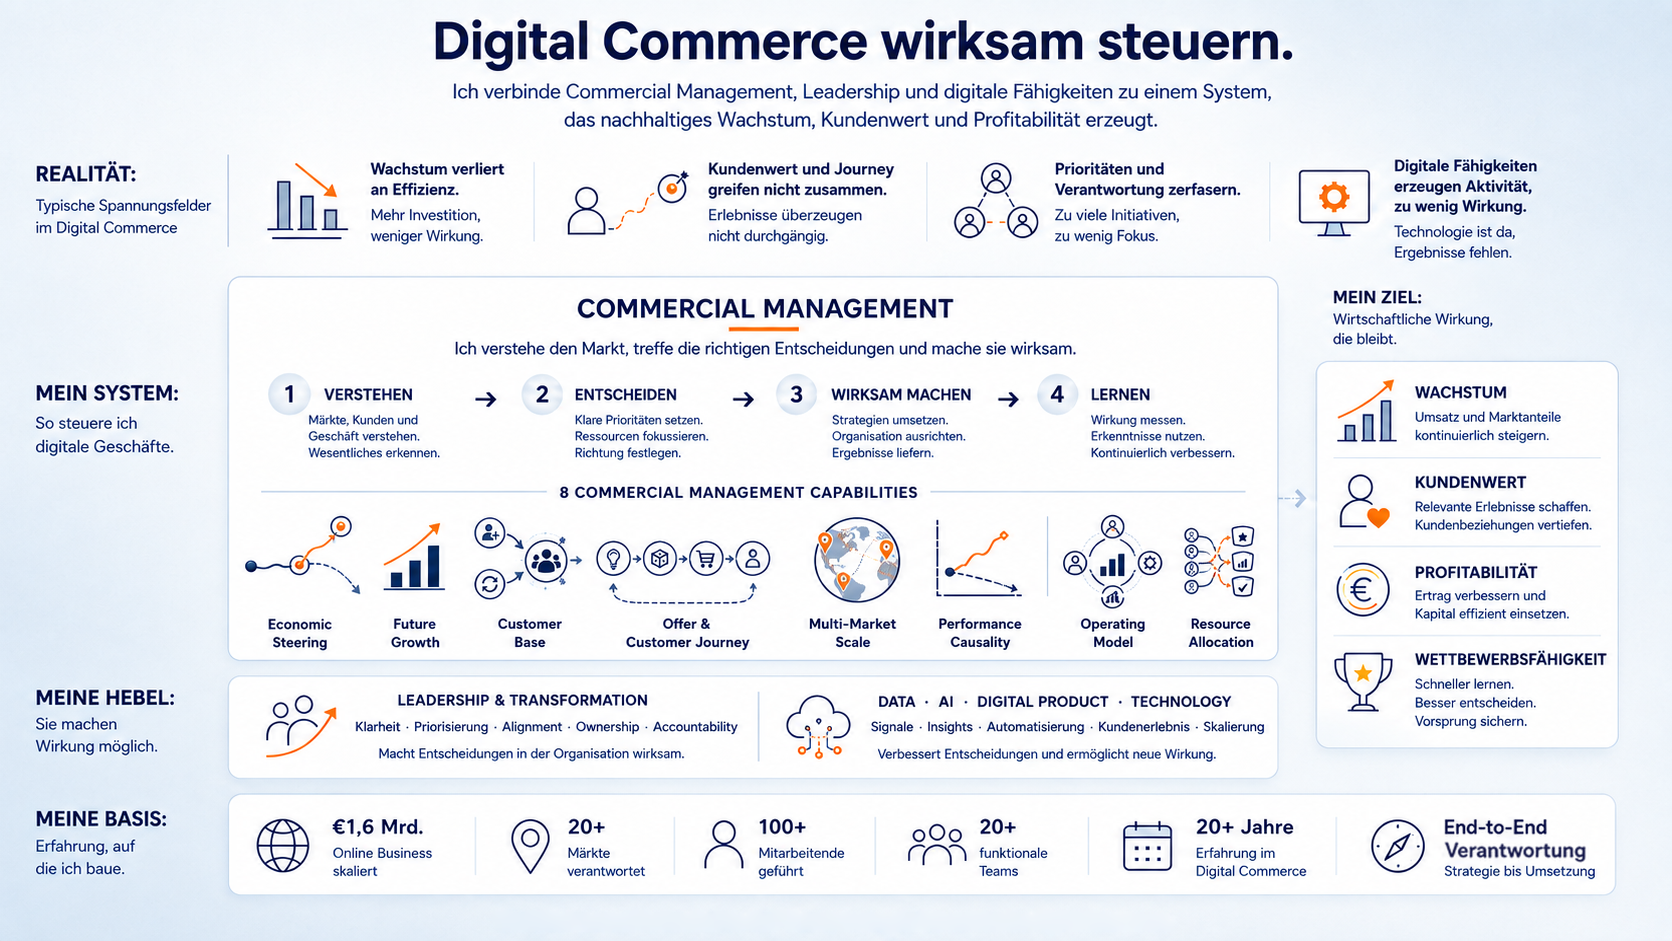
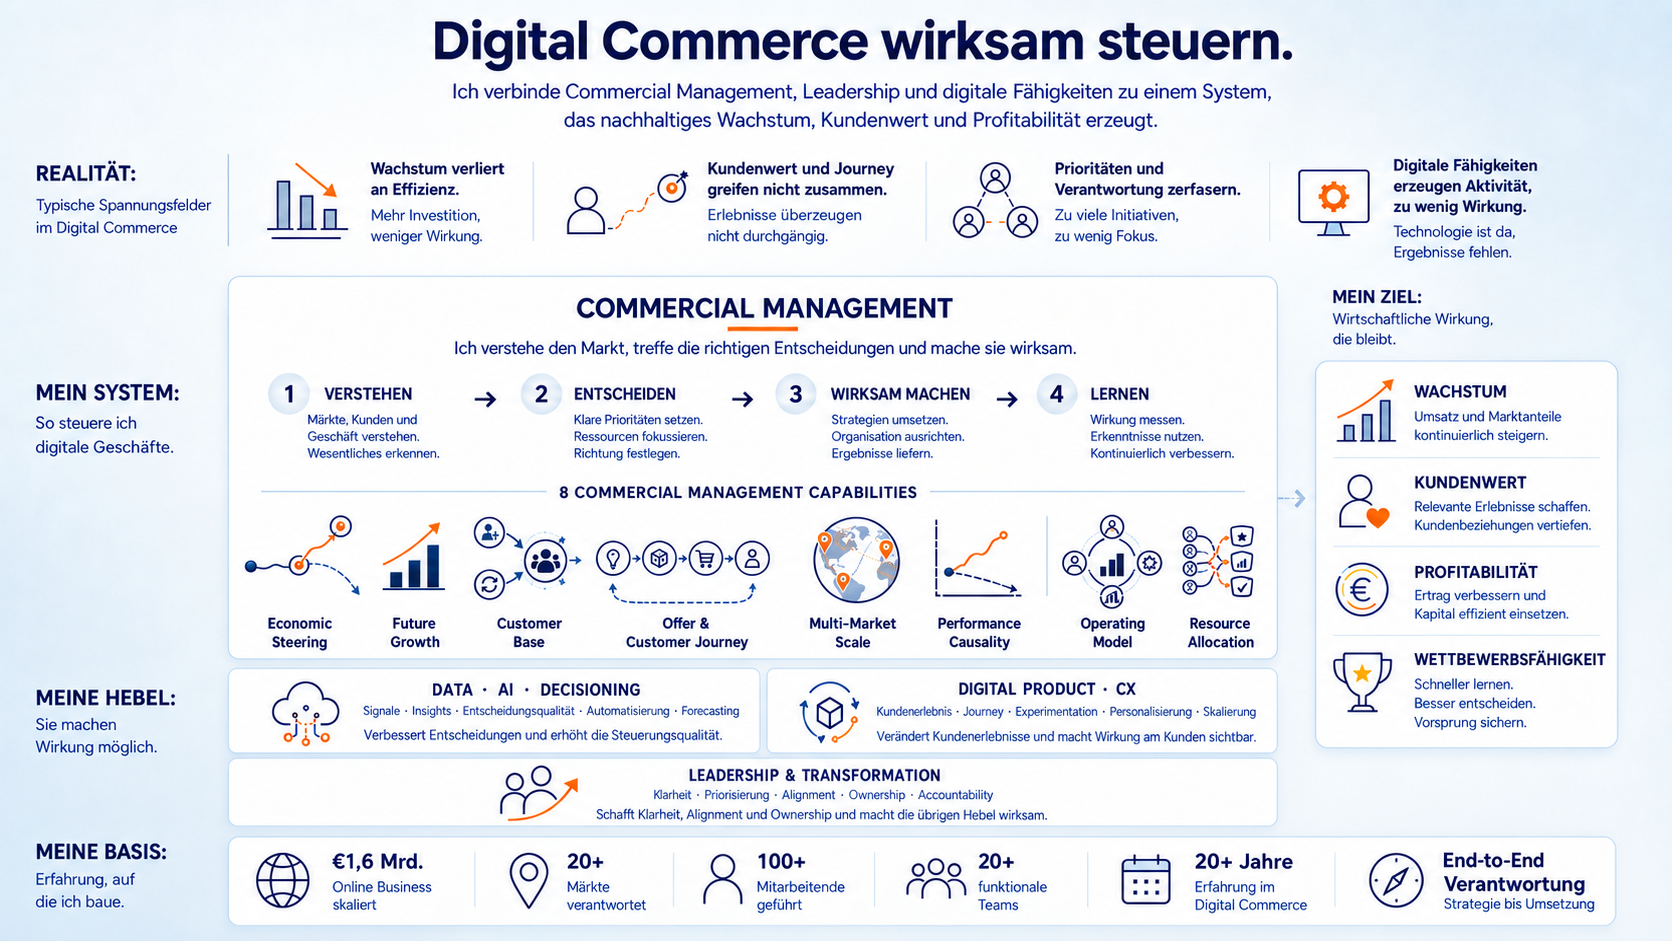
Update Nav, Commercial section and Digital Product/CX page
Simplify nav (drop separate Digital Product & CX link, add a11y label
and focus styles), rework Commercial.astro content, trim the
interfaces/commercial-return sections from the Digital Product & CX
page, and refresh the commercial steering image.

diff --git a/AGENTS.md b/AGENTS.md
@@ -1,0 +1,6 @@
+# Agent-Anweisungen
+
+Der Projekt-Kanon steht vollstaendig in `CLAUDE.md`. Bitte dort lesen.
+
+Diese Datei existiert nur, weil manche Agents `AGENTS.md` statt `CLAUDE.md` lesen.
+Sie wird bewusst nicht gepflegt: eine zweite Kopie laeuft auseinander, ein Verweis nicht.
